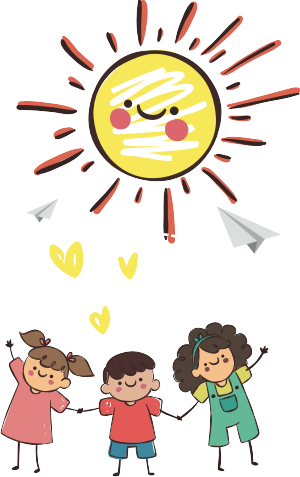
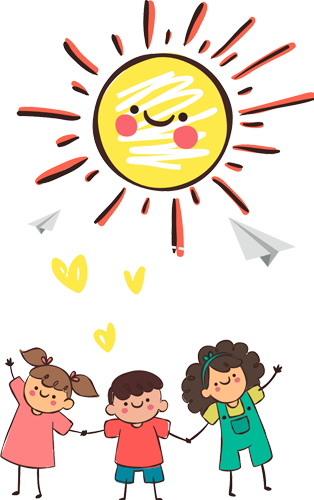
Сделал новые кавычки в аффере и изменил фотку детей в оффере

diff --git a/views/index/index.php b/views/index/index.php
@@ -10,7 +10,7 @@
 <section id='offer'>
     <div class='container'>
         <div class='content'>
-            <h1>Домашний детский клуб &ldquo;Кувшинка&rdquo; - <span>единственное в Наро-фоминском районе детское дошкольное учреждение с концепцией мягкой социализации ребенка.</span></h1>
+            <h1>Домашний детский клуб &laquo;Кувшинка&raquo; - <span>единственное в Наро-фоминском районе детское дошкольное учреждение с концепцией мягкой социализации ребенка.</span></h1>
             <?= Html::a('Записаться в кувшинку', Url::toRoute(['/contacts']), ['class'=>'call']); ?>            
         </div>
         <?= Html::img('@img/children.png', ['alt'=>'Домашний детский клуб "Кувшинка"', 'title'=>'Домашний детский клуб "Кувшинка"']); ?>
